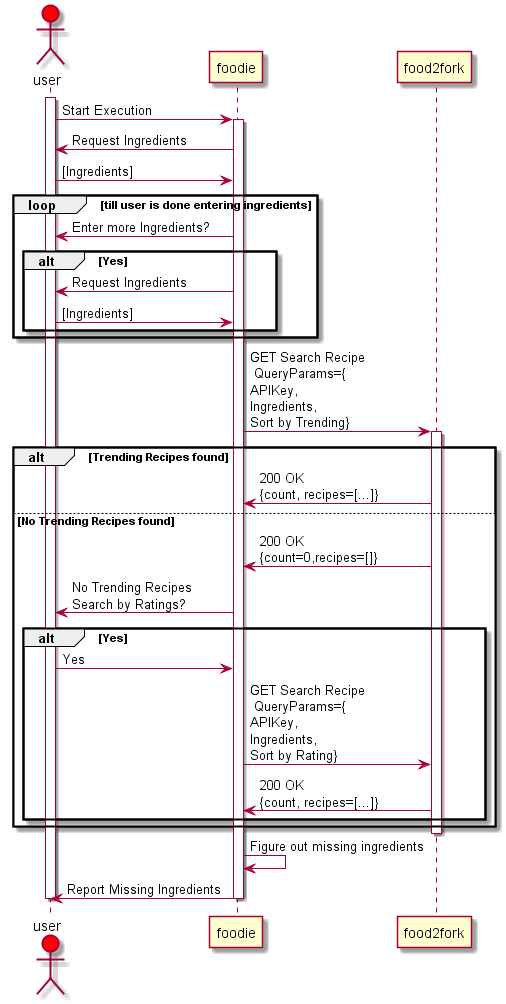
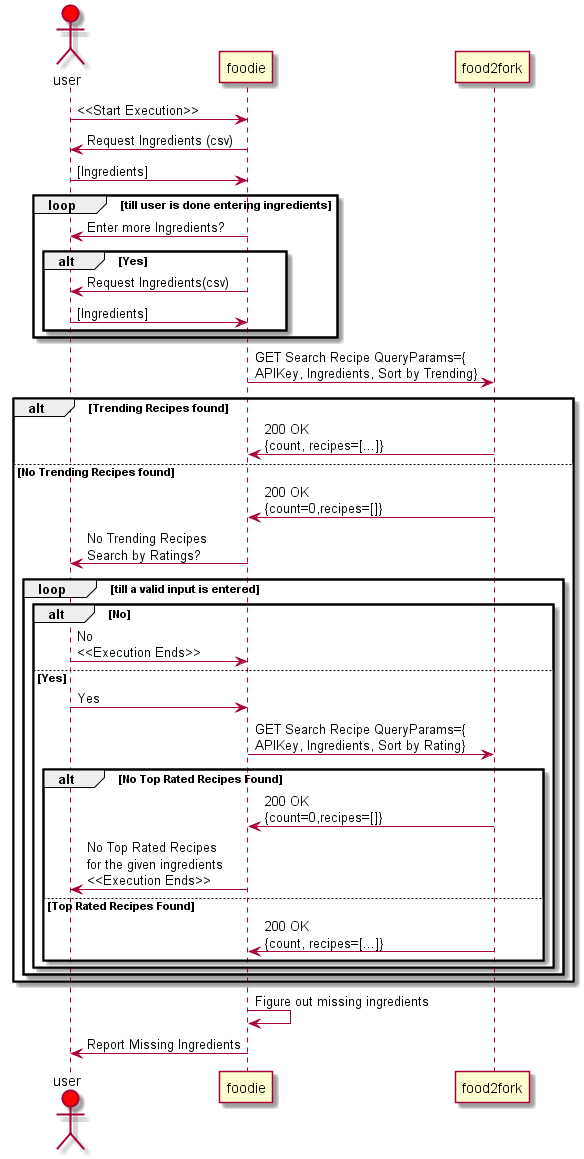
- Bug Fixes - Improved Design - Inline Documentation - Updated README

Changed region(s): [[0.0, 0.0, 1.0, 1.0], [0.7708, 0.8954, 0.9486, 0.9572], [0.7708, 0.0309, 0.9486, 0.0926]]

diff --git a/foodie/ingreds.py b/foodie/ingreds.py
@@ -18,8 +18,15 @@ NO_LIST = ['n', 'no', 'nope']
 
 
 class ingreds(object):
-
+    """
+    Command Line App to use Food2Fork's Search API through REST calls to fetch top recipe for the given ingredients and report missing ones
+    """
     def __init__(self, ing_list=[]):
+        """
+        Initializes Config Parser for reading config properties
+        Initializes ingredient list
+        :param ing_list:
+        """
         config_file = os.path.dirname(os.path.dirname(os.path.abspath(__file__))) +\
                          os.sep +\
                          'config' +\
@@ -30,11 +37,22 @@ class ingreds(object):
         self.ing_list = ing_list
 
     def get_missing_ingreds(self):
+        """
+        Driver method
+            - Fetches top receipes through GET call to Food2Fork Search Recipes for given ingredients
+                - By trending at first
+                - By ratings if above fails
+            - Fetches top recipe details through GET call to Food2Fork
+
+        :return:
+        """
         self.get_ingreds()
         ing_str = self.get_pretty_ingred_str()
+        # Search API Payload - sort by trending
         data = {KEY: self.config.get(FOOD_2_FORK, API_KEY),
                 Q: ing_str,
                 SORT: self.config.get(FOOD_2_FORK, TRENDING)}
+
         try:
             r = requests.get(self.config.get(FOOD_2_FORK, SEARCH_API_URL), params=data)
             if r.status_code != 200:
@@ -45,14 +63,16 @@ class ingreds(object):
             return
 
         if json.loads(r.text)['count'] == 0:
-            print('No Results found for Trending Search')
+            print('\nNo Results found for Trending Search')
             if self.get_search_by_ratings_enabled():
+                # Sort by top rated
                 data[SORT] = self.config.get(FOOD_2_FORK, RATING)
                 try:
                     r = requests.get(self.config.get(FOOD_2_FORK, SEARCH_API_URL), params=data)
                     if r.status_code != 200:
                         print('[ERROR] Received %d from Food2Fork for Search API' % r.status_code)
                         return
+
                 except Exception as e:
                     print('[ERROR]Failed to reach Food2Fork Exception=%r' % e.with_traceback())
                     return
@@ -60,10 +80,15 @@ class ingreds(object):
                 print("Exiting")
                 return
 
-        top_recipe = json.loads(r.text)['recipes'][0]
-        tr_id = top_recipe['recipe_id']
+        response_json = json.loads(r.text)
+        if response_json['count'] == 0:
+            print('No Matching Recipes found for the provided ingredients')
+            return
+
+        tr_id = response_json['recipes'][0]['recipe_id']
         data = {KEY: self.config.get(FOOD_2_FORK, API_KEY),
                 R_ID: tr_id}
+
         try:
             r = requests.get(self.config.get(FOOD_2_FORK, GET_API_URL), params=data)
             if r.status_code != 200:
@@ -72,11 +97,17 @@ class ingreds(object):
         except Exception as e:
             print('[ERROR]Failed to reach Food2Fork Exception=%r' % e.with_traceback())
             return
-        top_recipe = json.loads(r.text);
+
+        top_recipe = json.loads(r.text)
         self.print_missing_ingreds(self.find_missing_ingreds(top_recipe['recipe']['ingredients']),
-                                   top_recipe)
+                                   title=top_recipe['recipe']['title'])
 
     def get_search_by_ratings_enabled(self):
+        """
+        Takes Yes/No input from the user for fetching recipes by ratings
+        Loops till a valid input is entered
+        :return: Boolean value corresponding to choice
+        """
         while True:
             choice = input("Do you want search by ratings? (Y/N)\n")
             if choice.lower() in NO_LIST:
@@ -90,6 +121,13 @@ class ingreds(object):
         return sch_by_ratings
 
     def find_missing_ingreds(self, all_ings):
+        """
+        Creates a dict out of list of all ingredients with True values
+        Marks the ingredients in all_ings dict as False if user entered ingredient is its substring
+        Ingredients marked False are not used for further comparisons
+        :param all_ings:
+        :return: Ingredient Dictionary with repeated ingredients marked False
+        """
         all_ings_dict = {}
         for i in all_ings:
             all_ings_dict[i] = True
@@ -100,19 +138,34 @@ class ingreds(object):
                         all_ings_dict[key] = False
         return all_ings_dict
 
-    def print_missing_ingreds(self, all_ings_dict,top_recipe):
-        print('Missing Ingredients for\n %r' % top_recipe['title'])
+    def print_missing_ingreds(self, all_ings_dict, title):
+        """
+        Prints the top receipe title and the list of ingredients user was missing from the initial input
+        :param all_ings_dict:
+        :param top_recipe:
+        :return: None
+        """
+        print('\nMissing Ingredients for\n%r' % title)
         for key in all_ings_dict.keys():
             if all_ings_dict[key]:
                 print(key)
 
     def get_pretty_ingred_str(self):
+        """
+        Format ingredients into lowercase csv
+        :return: pretty printed comma separated string of input ingredients
+        """
         ingreds_str = ''
         for i in self.ing_list:
             ingreds_str += i.lower() + ','
         return ingreds_str[:-1]
 
     def get_ingreds(self):
+        """
+        Inputs csv ingredient list from the user
+        Input loops till user is satisfied
+        :return:
+        """
         more_inp = True
         while more_inp:
             self.ing_list.append((input("Enter Ingredient(s) - separated by commas\n")).strip())
@@ -124,10 +177,9 @@ class ingreds(object):
                 elif choice.lower() in YES_LIST:
                     break
                 else:
-                    print("Wrong Input. Try Again..")
-        # TODO Remove print
-        print(self.ing_list)
+                    print("Invalid Input. Try Again..")
         print("Fetching Trending Recipes on Food2Fork")
+
 
 if __name__ == "__main__" :
     ingreds().get_missing_ingreds()

diff --git a/setup.py b/setup.py
@@ -4,7 +4,7 @@ desc = "Command Line App to use Food2Fork's Search API through REST " \
 
 setup(
    name='foodie',
-   version='0.0.1',
+   version='0.0.2',
    url='https://github.com/rachit-ranjan16/foodie',
    description=desc,
    long_description=desc,

diff --git a/foodie/tests/testIngred.py b/foodie/tests/testIngred.py
@@ -1,5 +1,4 @@
 import unittest
-from unittest.mock import patch
 from ..ingreds import ingreds
 
 class testIngred(unittest.TestCase):

diff --git a/README.md b/README.md
@@ -1,20 +1,26 @@
 # foodie
-Command Line App to use Food2Fork's Search API through REST to fetch top recipe for the given ingredients and report missing ones
+Command Line App to use Food2Fork's Search API through REST calls to fetch top recipe for the given ingredients and report missing ones
 
 ## Prerequisites 
-- Python 3.5+ with **pip installed** 
-    - Preferably in a virtualenv (pyvenv, virtualenv, anaconda)
+- Git installed and configured 
+- Python 3.5+ with **pip installed** (Refer [Anaconda](https://conda.io/docs/user-guide/install/index.html') for quick setup)
+    - Preferably in a virtualenv (pyvenv, virtualenv, conda)
 - Internet Connection with Proxy Settings at OS level
     - For installing dependencies and running the app 
     
 ## Ops  
+- Clone Git Repo 
+    - `git clone https://github.com/rachit-ranjan16/foodie.git`
+- Navigate to `~foodie/`
 - Install dependencies 
     - `python setup.py develop`
 - Run Application 
-    - Windows
-        - `python foodie\ingreds.py`
     - Linux/Mac
         -  `python foodie/ingreds.py`
+    - Windows
+        - `python foodie\ingreds.py`
+
 
 ## Design 
+Positive Flow  
 ![Could not display. Check design/SequenceDiag.png](/design/SequenceDiag.png?raw=true "Component Diagram")
